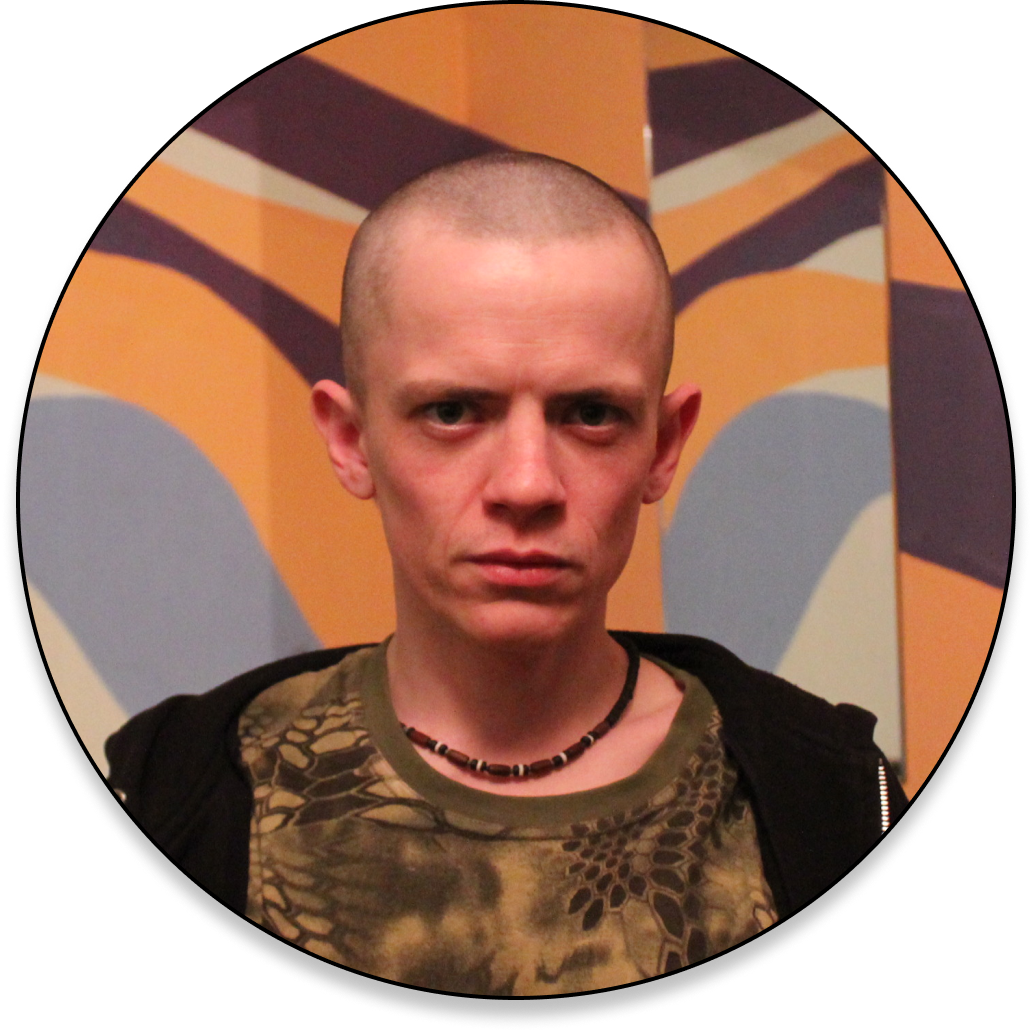
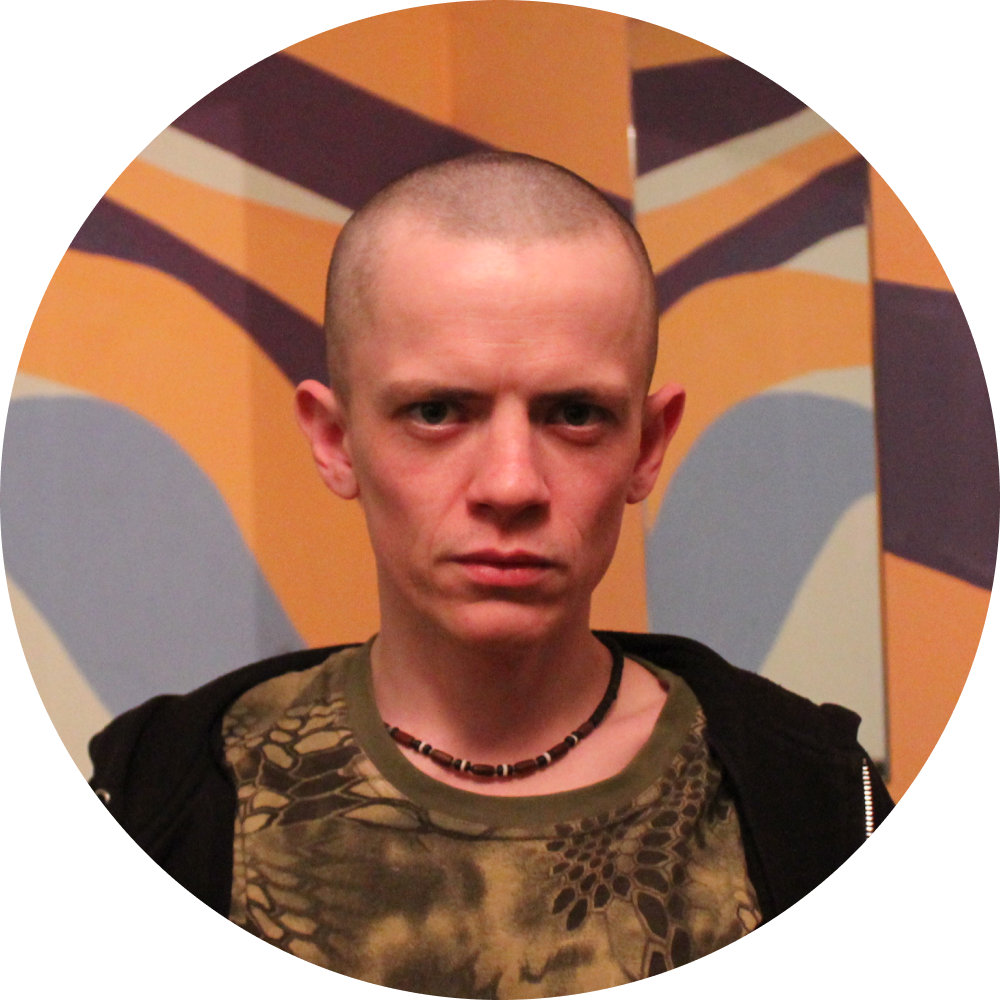
Уменьшено видео для ширины экрана 1920px, ширина элементов не починена так как будут другие правки с изменением набора компонентов, в блоке литжурнала добавлена плавная прокрутка картинки, блок в мобильной версии теперь больше по высоте, текст выровнян по левому краю, добавлены поля и отступы

diff --git a/src/components/AboutPage/RD/styles.ts b/src/components/AboutPage/RD/styles.ts
@@ -102,7 +102,8 @@ export const StyledWrapper = styled.section`
   }
 
   @media ${breakPoints.smd} {
-    height: calc(20.28vw + 451.0943px);
+    /* height: calc(20.28vw + 451.0943px); */
+    height: calc(-4.669vw + 949.43px);
     > img {
       /* height: 825px; */
     }
@@ -179,14 +180,19 @@ export const StyledContent = styled.div`
     /* height: 195px;
     padding-left: 0px;
     padding-right: 0px; */
+    gap: 10px 0;
   }
 
   @media ${breakPoints.smd} {
     --box-width: calc(62.26415vw + 39.75px);
     --box-height: calc(-5.188679245vw + 393.6037736px);
+    padding: 10px 12px;
+    gap: 10px 0;
   }
 
   @media ${breakPoints.sm} {
+    gap: 10px 0;
+
     /* margin-top: 15px;
     grid-template-rows: repeat(3, min-content);
     gap: 15px;
@@ -280,7 +286,7 @@ export const StyledMainText = styled(Text)`
   max-width: calc(0.7 * var(--box-width));
   font-size: 18px;
 
-  width: var(--width);
+  /* width: var(--width); */
 
   @media ${breakPoints.xxl} {
     font-size: 16px;
@@ -298,14 +304,19 @@ export const StyledMainText = styled(Text)`
   }
 
   @media ${breakPoints.smd} {
-    max-width: calc(0.97 * var(--box-width));
+    /* max-width: calc(0.97 * var(--box-width)); */
+    max-width: calc(0.9 * var(--box-width));
     font-size: 14px;
   }
 
   @media ${breakPoints.sm} {
-    max-width: calc(0.95 * var(--box-width));
+    /* max-width: calc(0.95 * var(--box-width)); */
+    /* max-width: unset; */
+    /* max-width: 212px; */
     font-size: 12px;
+    line-height: 142%;
     text-align: left;
+    letter-spacing: 0em;
   }
 `;
 
@@ -366,13 +377,14 @@ export const StyledSecondaryText = styled(Text)`
     max-width: calc(0.9 * var(--box-width));
     font-size: 14px;
     text-align: left;
-    margin: 0 auto 0 calc(0.005 * var(--box-width));
+    /* margin: 0 auto 0 calc(0.005 * var(--box-width)); */
   }
 
   @media ${breakPoints.sm} {
-    max-width: calc(0.63 * var(--box-width));
+    /* max-width: 300px; */
     font-size: 12px;
+    line-height: 142%;
     text-align: left;
-    margin: 0 auto 0 calc(0.09 * var(--box-width));
+    letter-spacing: 0em;
   }
 `;

diff --git a/src/components/AboutPage/RD/RD.tsx b/src/components/AboutPage/RD/RD.tsx
@@ -4,6 +4,7 @@ import {
   useScroll,
   motion,
   useTransform,
+  useSpring,
   // useViewportScroll,
   // useMotionValueEvent,
 } from 'framer-motion';
@@ -165,12 +166,18 @@ const RD = (): React.ReactElement => {
     target: ref,
     offset: ['end start', 'start end'],
   });
+  const scrollYProgressSpring = useSpring(scrollYProgress, {
+    stiffness: 500,
+    damping: 300,
+    restDelta: 0.001,
+  });
   // const [hookedYPostion, setHookedYPosition] = React.useState(0);
   // React.useEffect(() => {
   //   scrollYProgress.onChange((v) => setHookedYPosition(v));
   // }, [scrollYProgress, setHookedYPosition]);
 
-  const y = useTransform(scrollYProgress, [1, 0], ['-40%', '40%']);
+  // const y = useTransform(scrollYProgress, [1, 0], ['-40%', '40%']);
+  const y = useTransform(scrollYProgressSpring, [1, 0], ['-40%', '40%']);
 
   return (
     <StyledWrapper ref={ref}>

diff --git a/src/components/AboutPage/BeWithUs/SubscribeForm/styles.ts b/src/components/AboutPage/BeWithUs/SubscribeForm/styles.ts
@@ -4,9 +4,8 @@ import Button from '@/components/Common/Button';
 
 export const StyledForm = styled.form`
   display: grid;
-  /* grid-template-columns: minmax(220px, 630px) min-content; */
   grid-template-columns: auto min-content;
-  column-gap: 20px;
+  column-gap: 24px;
   row-gap: 10px;
   margin: 0 auto;
   max-width: 879px;
@@ -40,7 +39,7 @@ export const StyledForm = styled.form`
 `;
 
 export const StyledButton = styled(Button)`
-  margin: 0 auto;
+  /* margin: 0 auto; */
 
   @media ${breakPoints.lg} {
     /* width: 100%; */
@@ -50,7 +49,7 @@ export const StyledButton = styled(Button)`
 
     height: 45px;
     min-height: 45px;
-    margin: 0 auto;
+    /* margin: 0 auto; */
   }
 
   @media ${breakPoints.smd} {

diff --git a/pages/about/index.tsx b/pages/about/index.tsx
@@ -43,9 +43,9 @@ const About: NextPage = () => (
 export default About;
 
 const VideoContainer = styled(Container)`
-  /* height: calc(var(--width) * 9 / 16 - var(--top-div-gap)); */
-  height: calc(var(--width) * 9 / 16);
   width: var(--width);
+  display: grid;
+  justify-items: center;
 `;
 
 const StyledWrapper = styled.main`
@@ -100,6 +100,9 @@ const StyledWrapper = styled.main`
 `;
 
 const StyledStarsBlock = styled.section`
+  * {
+    outline: 1px solid green;
+  }
   display: flex;
   flex-direction: column;
   gap: 130px;

diff --git a/src/components/AboutPage/Video.tsx b/src/components/AboutPage/Video.tsx
@@ -15,15 +15,12 @@ export interface VideoProps {
 }
 
 const StyledVideo = styled.video`
-  /* position: absolute;
-  top: calc(-1 * var(--top-div-gap)); */
   width: var(--width); /* global --width = 1440px */
-  max-width: 1440px;
+  max-width: calc(0.8 * 1440px);
   background-color: var(--grey);
-  /* width: 100%; */
-  /* height: 794px; */
 
   @media ${breakPoints.xl} {
+    max-width: var(--width);
     width: calc(var(--width) - 0px); /* global --width = 1024px */
   }
 

diff --git a/src/components/AboutPage/Donate/DonateForm/styles.ts b/src/components/AboutPage/Donate/DonateForm/styles.ts
@@ -37,7 +37,7 @@ export const StyledForm = styled.form`
 
 export const StyledButton = styled(Button)`
   max-width: 900px;
-  margin-left: auto;
+  /* margin-left: auto; */
 
   @media ${breakPoints.xl} {
     max-width: 720px;
